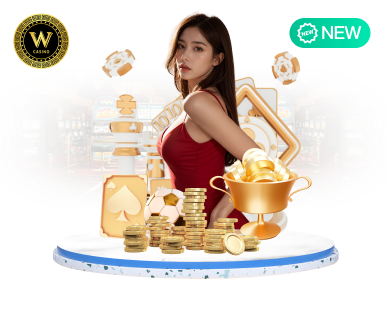
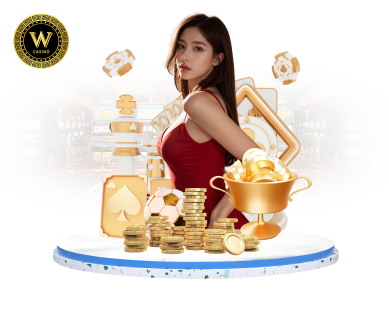
fix: [vnm] change new ribbon

Changed region(s): [[0.7404, 0.0566, 0.9563, 0.1698]]

diff --git a/vnm-static-web/src/components/menu/PlatformMenu.vue b/vnm-static-web/src/components/menu/PlatformMenu.vue
@@ -36,7 +36,7 @@
             "
           />
           <img
-            v-if="props.platformType === 'slot' && item.code.toLowerCase() === 'pt'"
+            v-if="props.platformType === 'slot' && item.code.toLowerCase() === 'pt' || props.platformType === 'live' && (item.code.toLowerCase() === 'pmlive' || item.code.toLowerCase() === 'won')"
             src="@/assets/images/index/new-ribbon.svg"
             class="new-ribbon"
           />
